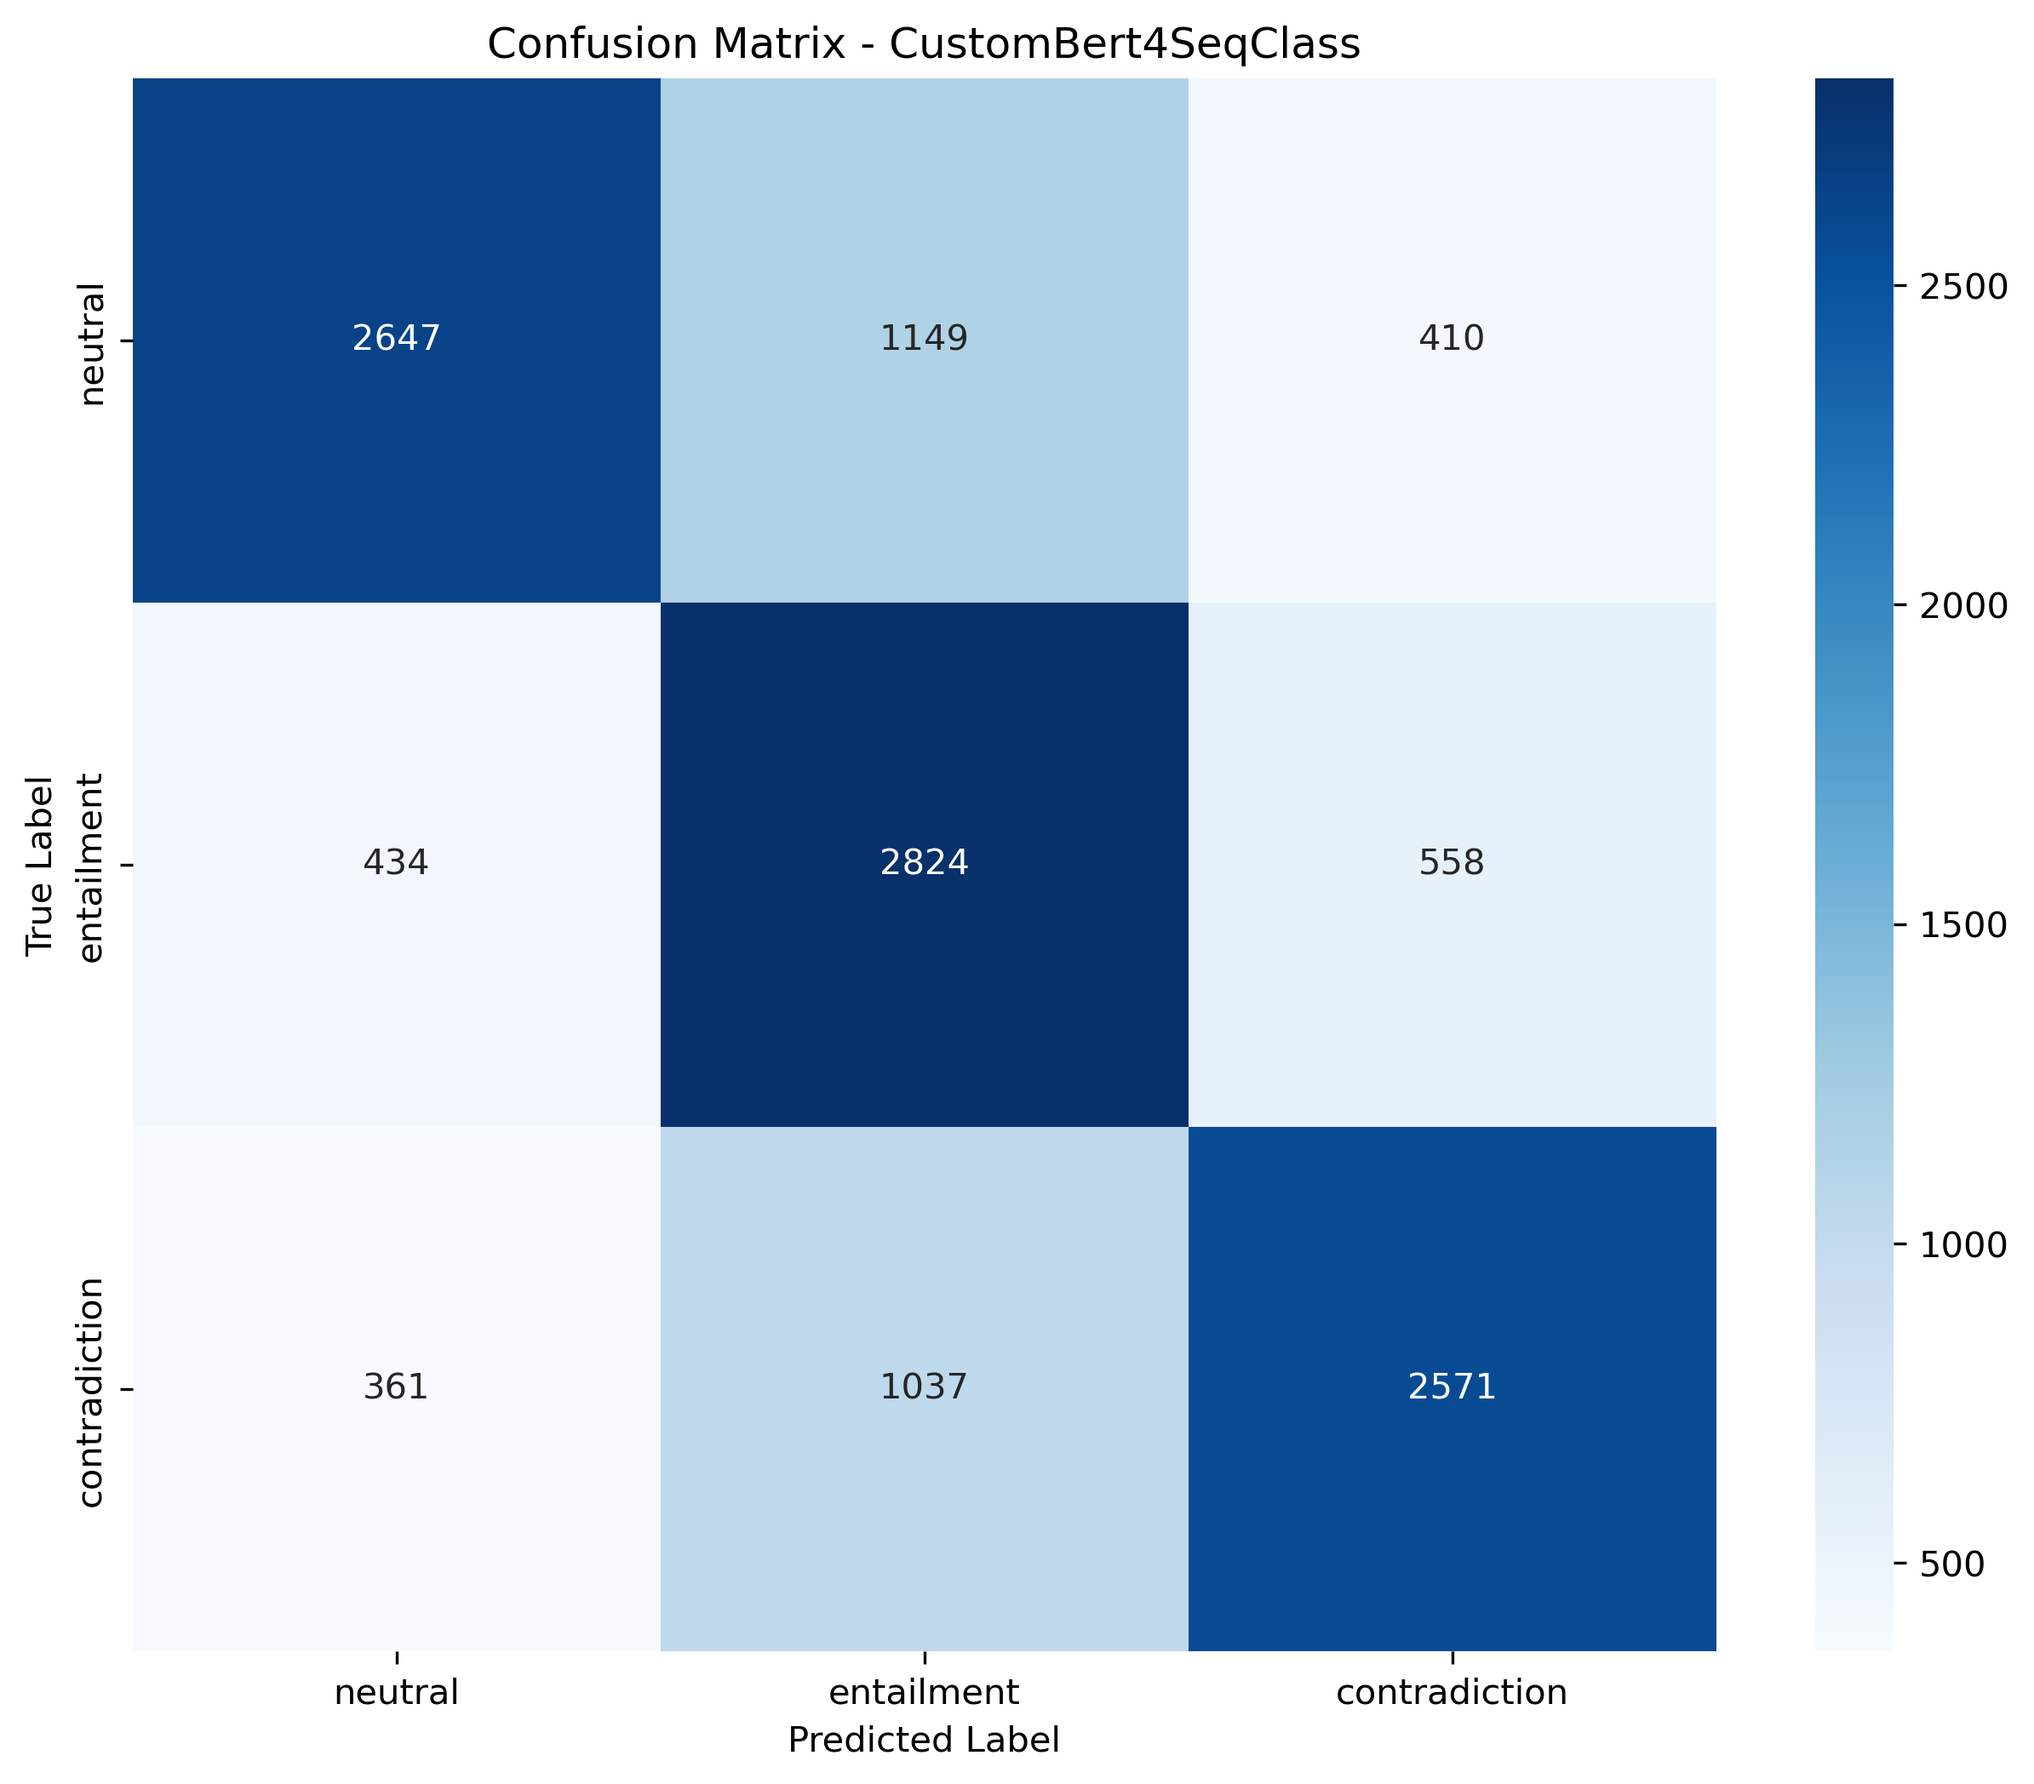
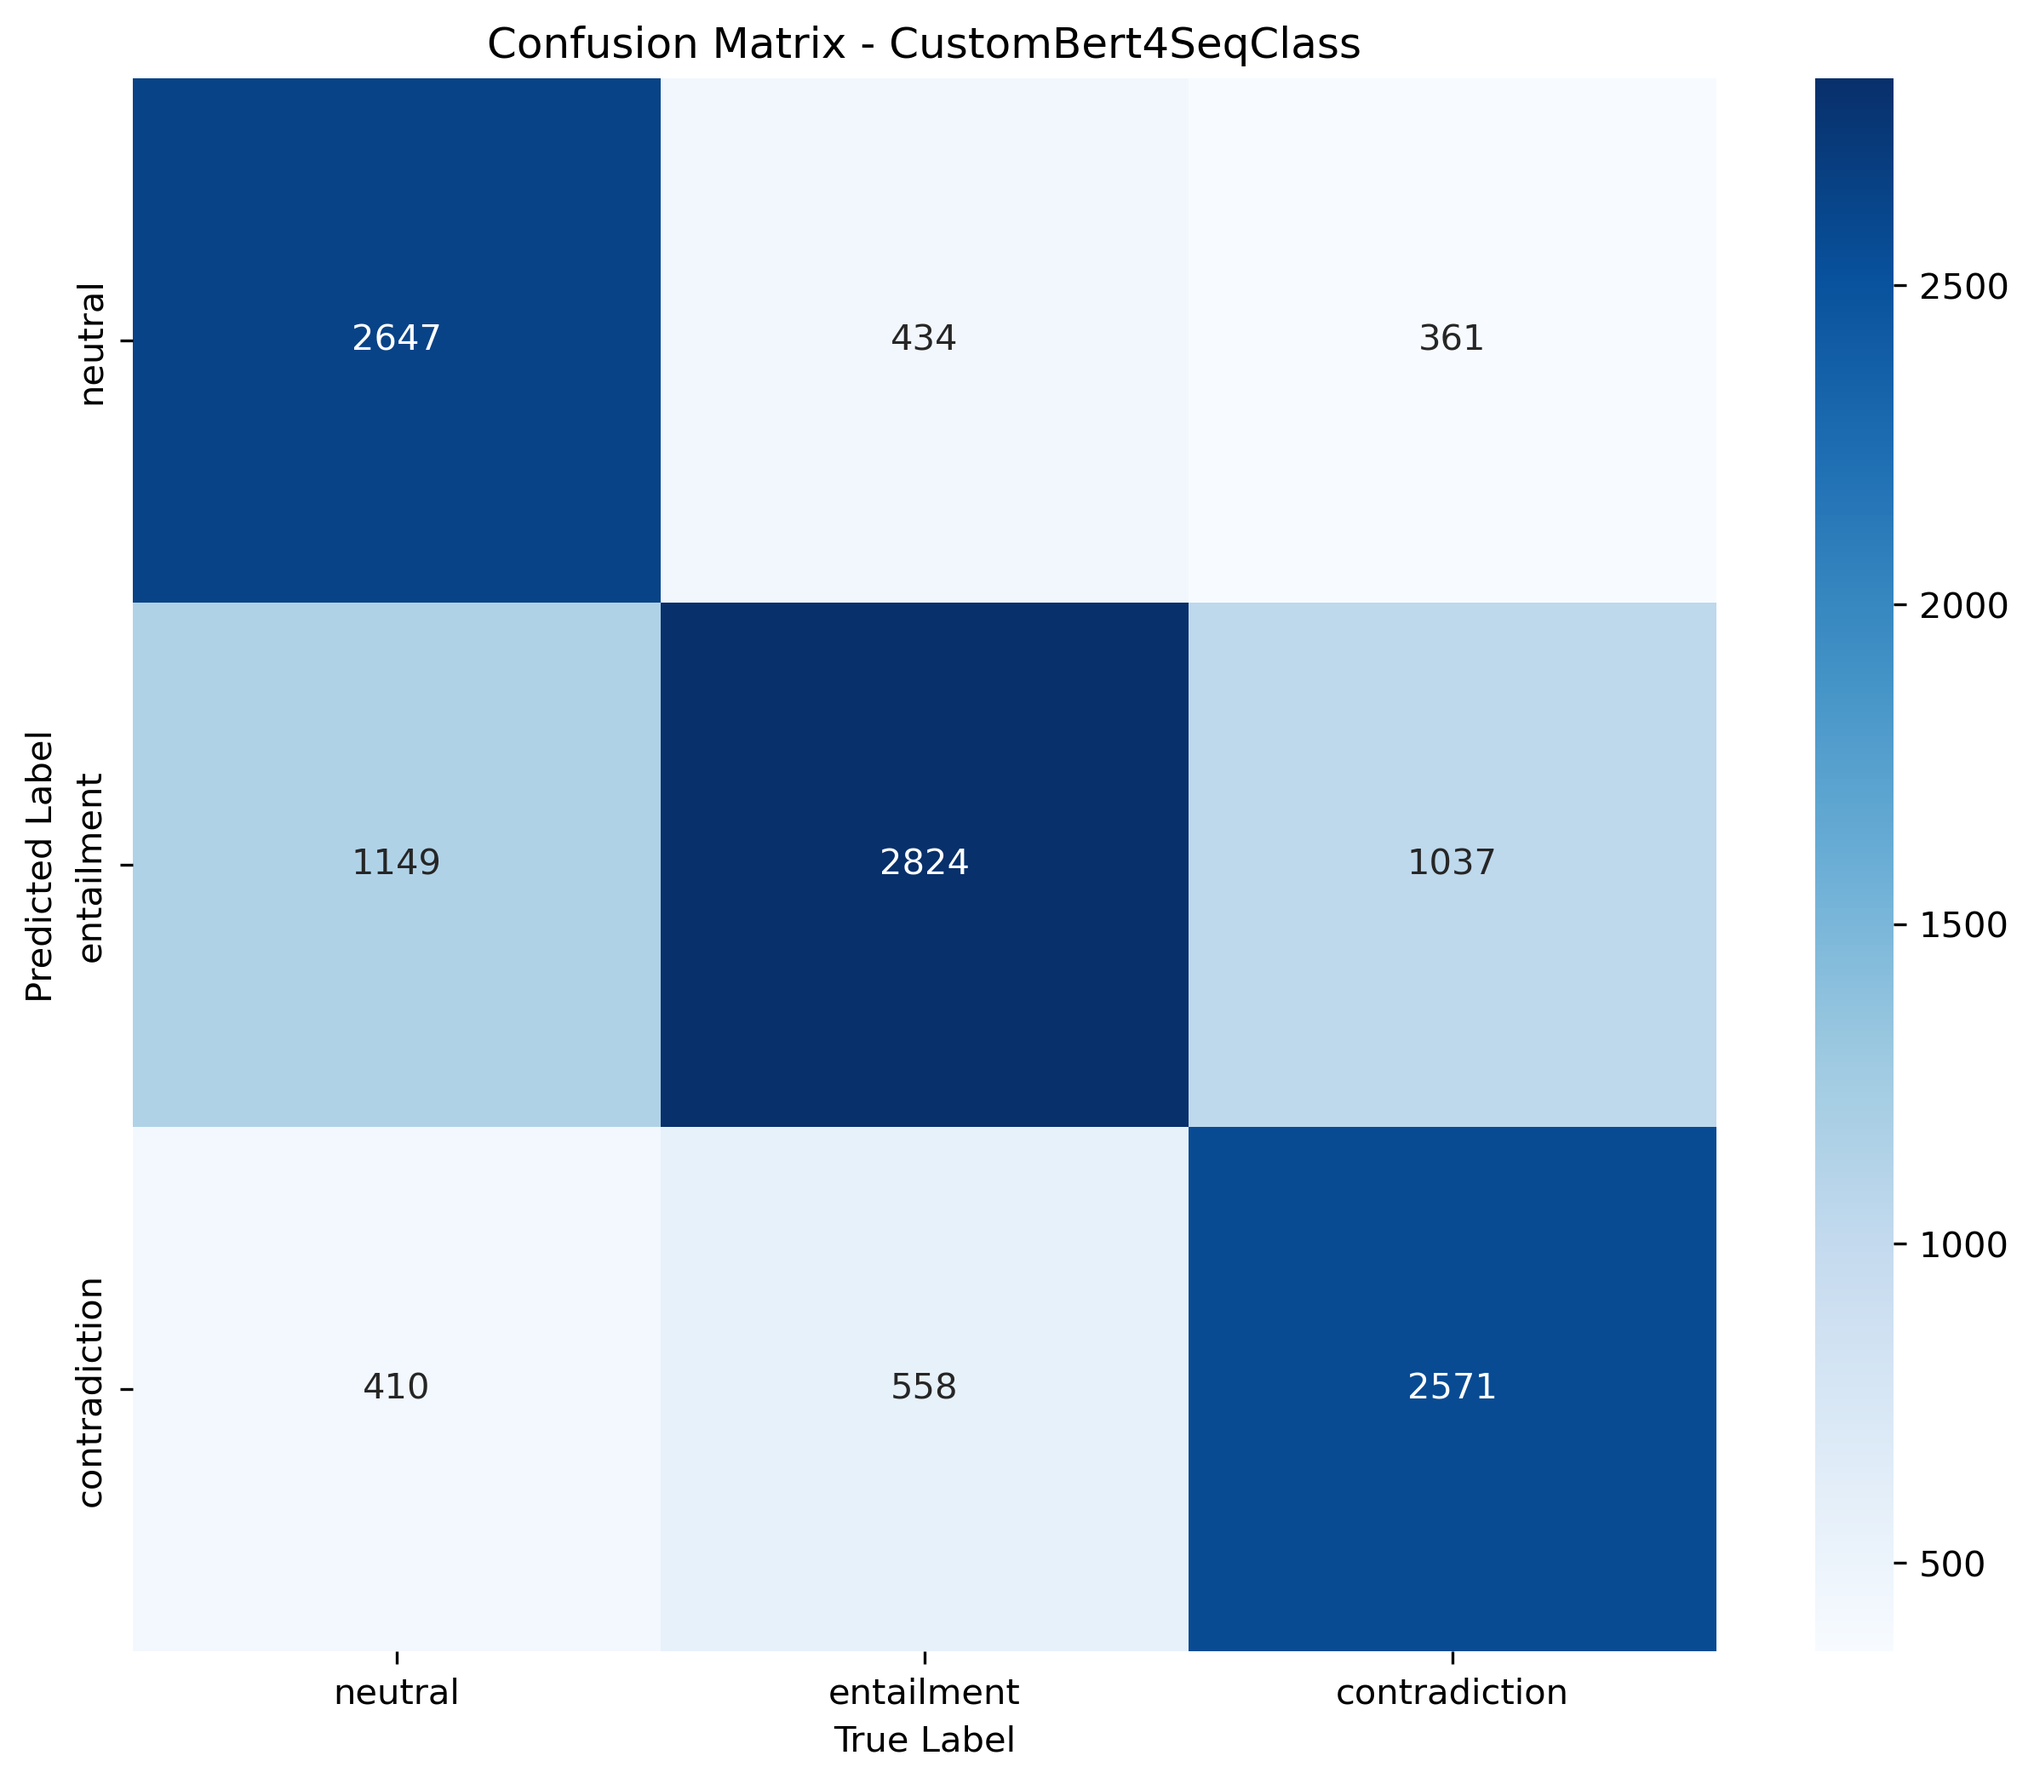
update

diff --git a/results_test/extract_metrics_class.py b/results_test/extract_metrics_class.py
@@ -40,6 +40,24 @@ def plot_confusion_matrix(y_true, y_pred, model_name, path):
     plt.savefig(os.path.join(path, f'confusion_matrix_{model_name}.png'), dpi=300, bbox_inches='tight')
     plt.close()
 
+def plot_confusion_matrix_transp(y_true, y_pred, model_name, path):
+    # Map the numerical labels to their string equivalents
+    unique_labels = sorted(set(y_true) | set(y_pred))
+    mapped_labels = [mapp_labels(label) for label in unique_labels]
+    
+    # Compute confusion matrix
+    cm = confusion_matrix(y_true, y_pred, labels=unique_labels)
+    cm_inverted = cm.T  # Trasponi la matrice di confusione per riflettere l'inversione degli assi
+    plt.figure(figsize=(10, 8))
+    sns.heatmap(cm_inverted, annot=True, fmt='d', cmap='Blues', xticklabels=mapped_labels, yticklabels=mapped_labels)
+    plt.title(f'Confusion Matrix - {model_name}')
+    plt.xlabel('True Label')  # Inverti asse x e asse y
+    plt.ylabel('Predicted Label')  # Inverti asse x e asse y
+    plt.savefig(os.path.join(path, f'confusion_matrix_{model_name}.png'), dpi=300, bbox_inches='tight')
+    plt.close()
+
+
+
 def plot_confusion_matrix_old(y_true, y_pred, model_name, path):
     cm = confusion_matrix(y_true, y_pred)
     plt.figure(figsize=(10, 8))
@@ -83,7 +101,7 @@ print_metrics_per_class(df1['label'], df1['pred'], "Bert4SeqClass")
 print_metrics_per_class(df2['label'], df2['pred'], "CustomBert4SeqClass")
 
 # Plot per Bert4SeqClass
-plot_confusion_matrix(df1['label'], df1['pred'], 'Bert4SeqClass',path='results_test/class_task/bert-base-uncased_inference_mnli_2024-06-29_17-54-04')
+plot_confusion_matrix_transp(df1['label'], df1['pred'], 'Bert4SeqClass',path='results_test/class_task/bert-base-uncased_inference_mnli_2024-06-29_17-54-04')
 
 # Plot per CustomBertForSeqClass
-plot_confusion_matrix(df2['label'], df2['pred'], 'CustomBert4SeqClass',path='results_test/class_task/bert-base-uncased_inference_mnli_2024-06-29_18-40-49')
+plot_confusion_matrix_transp(df2['label'], df2['pred'], 'CustomBert4SeqClass',path='results_test/class_task/bert-base-uncased_inference_mnli_2024-06-29_18-40-49')

diff --git a/avg_perc_att.py b/avg_perc_att.py
@@ -1,0 +1,26 @@
+import os
+import pandas as pd
+import seaborn as sns
+import matplotlib.pyplot as plt
+import statistics
+
+text_path = os.path.join(os.getcwd(),'experiments/validation/mlm_task/files/txt')
+attentions_distribution = []
+for i in range(9831):
+    mask_text_path = os.path.join(text_path,f"gm_{i}.txt")
+    #print(mask_text_path)
+    if f"gm_{i}.txt" in os.listdir(text_path):
+        with open(mask_text_path,'r') as f:
+            perc_att = float(f.readlines()[1].split(":")[-1])
+            attentions_distribution.append(perc_att)
+mean= sum(attentions_distribution)/len(attentions_distribution)
+median = statistics.median(attentions_distribution)
+print(f'means is {mean}')
+print(f'median is {median}')
+attentions_distribution = pd.DataFrame({'attention distribution':attentions_distribution})
+sns.kdeplot(data=attentions_distribution, x='attention distribution')
+plt.title('Attention Distribution KDE Plot')
+plt.xlabel('Attention Distribution')
+plt.ylabel('Density')
+plt.show()
+

diff --git a/explore_dataset.py b/explore_dataset.py
@@ -4,11 +4,12 @@ import pandas as pd
 
 
 dataset = load_dataset("LysandreJik/glue-mnli-train")
-dataset = dataset.filter(lambda example: len(example["premise"]) <= 120 and len(example["hypothesis"]) <= 120)
+#dataset = dataset.filter(lambda example: len(example["premise"]) <= 120 and len(example["hypothesis"]) <= 120)
 #sliced_train_dataset = DatasetDict(dataset["train"][3952:3954])
 #sliced_train_dataset = DatasetDict(dataset["train"][3949:3954])
 #sliced_train_dataset = DatasetDict(dataset["train"][12403:12404])
-sliced_train_dataset = pd.DataFrame(dataset["train"][:10])
+sliced_train_dataset = pd.DataFrame(dataset["train"][:])
+print(sliced_train_dataset.shape)
 #sliced_train_dataset.reset_index(drop=True, inplace=True)
 
 # Convert the dataset to a pandas DataFrame
